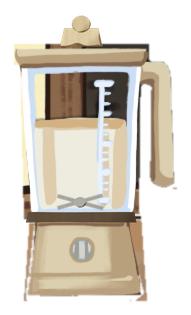
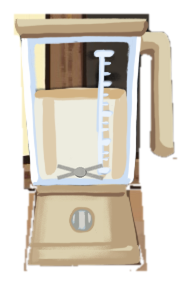
Kitchen blender: the owner's blender kept, only a blade added; its drink blends the four colours in chapter 2

diff --git a/Assets/Scripts/Kitchen/KitchenBlender.cs b/Assets/Scripts/Kitchen/KitchenBlender.cs
@@ -10,9 +10,9 @@ using UnityEngine.UI;
 /// cream colours one by one with a swirl and a shake (BlenderAnim). Built once per kitchen load, every chapter.
 public static class KitchenBlender
 {
-    static readonly Vector2 Min = new Vector2(0.0296f, 0.5005f), Max = new Vector2(0.2065f, 0.6646f);          // the cut-out's box on the background
-    static readonly Vector2 FluidMin = new Vector2(0.2154f, 0.4176f), FluidMax = new Vector2(0.7231f, 0.7824f); // the swirl inside the jar (blender2_cut.py)
-    public static readonly Color Rest = new Color(1f, 0.92f, 0.88f, 1f);                                        // at rest the swirl is the drawing's pale pink
+    static readonly Vector2 Min = new Vector2(0.0296f, 0.5005f), Max = new Vector2(0.2065f, 0.649f);           // the cut-out's box on the background (blender_cut.py)
+    static readonly Vector2 FluidMin = new Vector2(0.1571f, 0.3614f), FluidMax = new Vector2(0.6806f, 0.6912f); // the drink inside the jug (blender_cut.py)
+    public static readonly Color Rest = new Color(1f, 1f, 1f, 0f);                                             // at rest the overlay is invisible: the owner's drink shows as drawn
     public static readonly Color[] Flavours =
     {
         new Color(0.98f, 0.94f, 0.82f),   // vanilla
@@ -23,10 +23,10 @@ public static class KitchenBlender
 
     public static void Apply()
     {
-        // chapter 2: Gemini's steel blender in the style of ChatGPT's maker, the swirl inside (owner, 17 October);
-        // chapter 1: the owner's own cream blender as drawn, cut from the background, no ice cream and no blend
+        // the owner's own cream blender as drawn, cut from the background, with a blade added (owner, 17 October:
+        // "keep the original blender, only add a blade"); in chapter 2 its drink blends the four ice cream colours
         var ch2 = SessionManager.CurrentChapter >= 2;
-        var body = Resources.Load<Sprite>(ch2 ? "Kitchen/blender2" : "Kitchen/blender"); if (body == null) return;
+        var body = Resources.Load<Sprite>("Kitchen/blender"); if (body == null) return;
         Transform bg = null;
         foreach (var canvas in Object.FindObjectsOfType<Canvas>())
             if (canvas.gameObject.scene.name == "KitchenScene") { bg = canvas.transform.Find("bg"); if (bg != null) break; }
@@ -40,7 +40,7 @@ public static class KitchenBlender
 
         var fill = new GameObject("Contents", typeof(RectTransform), typeof(Image)); fill.transform.SetParent(rt, false);
         var frt = (RectTransform)fill.transform; frt.anchorMin = Vector2.zero; frt.anchorMax = Vector2.one; frt.offsetMin = Vector2.zero; frt.offsetMax = Vector2.zero;
-        var fi = fill.GetComponent<Image>(); fi.sprite = Resources.Load<Sprite>("Kitchen/blender2_fill"); fi.preserveAspect = true; fi.raycastTarget = false; fi.color = Rest;
+        var fi = fill.GetComponent<Image>(); fi.sprite = Resources.Load<Sprite>("Kitchen/blender_fill"); fi.preserveAspect = true; fi.raycastTarget = false; fi.color = Rest;
 
         // the drawn body is fitted by height inside the box (preserveAspect), so the jar's box is taken from the fitted rect
         var boxW = rt.rect.width; var boxH = rt.rect.height; var fitW = boxH * body.rect.width / body.rect.height; var padX = (boxW - fitW) / 2f / Mathf.Max(boxW, 1f);
@@ -84,7 +84,7 @@ public class BlenderAnim : MonoBehaviour, IPointerClickHandler
         IsBlending = true;
         var rt = (RectTransform)transform;
         var flavours = KitchenBlender.Flavours;
-        var from = KitchenBlender.Rest;
+        var from = new Color(flavours[0].r, flavours[0].g, flavours[0].b, 0f);     // the first flavour fades in over the drawn drink
         for (var i = 0; i < flavours.Length; i++)
         {
             var t = 0f;
@@ -107,7 +107,7 @@ public class BlenderAnim : MonoBehaviour, IPointerClickHandler
             s += Time.unscaledDeltaTime; var k = Mathf.Clamp01(s / 0.6f);
             Shake(rt, 1f - k); Churn(1f - k);
             if (swirl != null) { swirl.color = new Color(1f, 1f, 1f, 0.55f * (1f - k)); swirl.rectTransform.Rotate(0f, 0f, -540f * (1f - k) * Time.unscaledDeltaTime); }
-            if (contents != null) contents.color = Color.Lerp(from, KitchenBlender.Rest, k);
+            if (contents != null) contents.color = new Color(from.r, from.g, from.b, 1f - k);           // the last flavour fades out to the drawn drink
             yield return null;
         }
         rt.anchoredPosition = restPos; rt.localRotation = Quaternion.identity;
